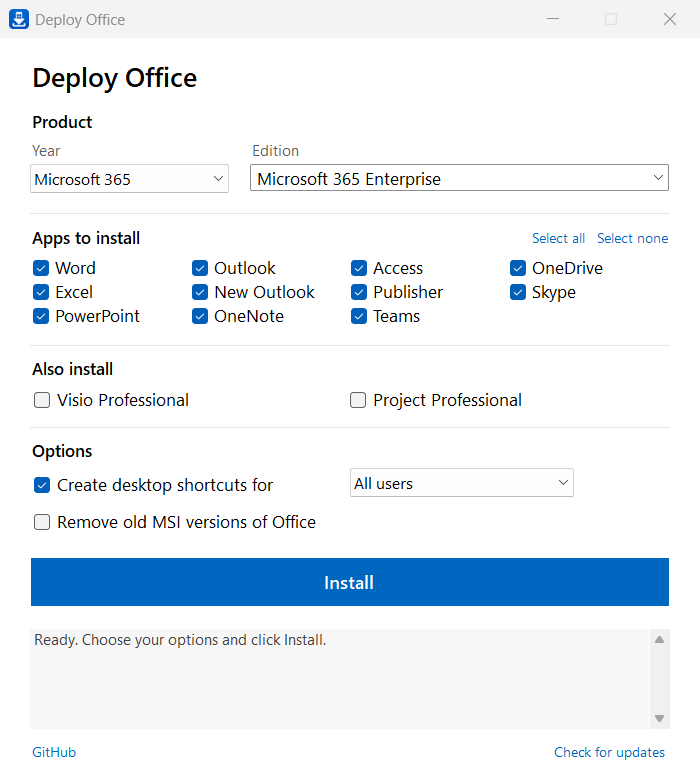
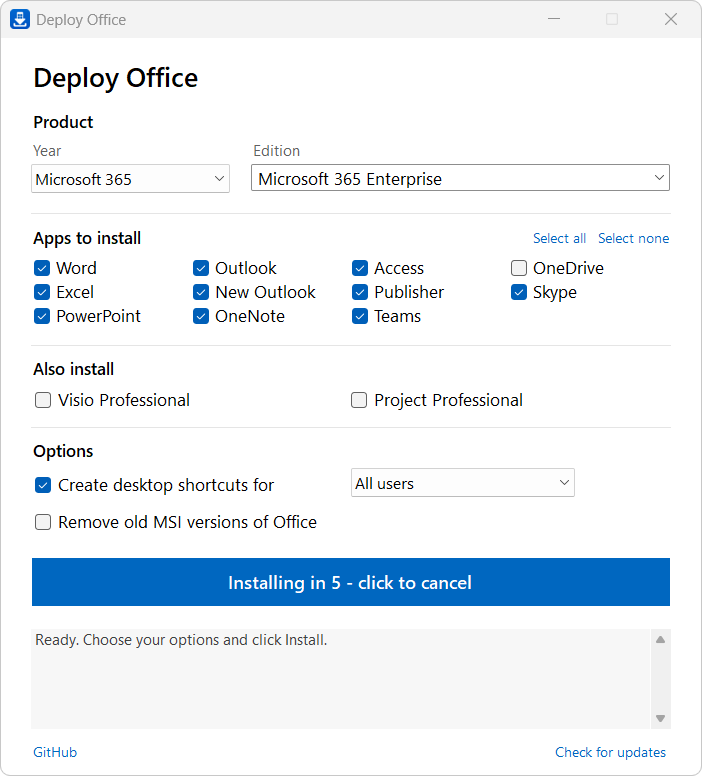
Update README and screenshot for 2.0.0

diff --git a/README.md b/README.md
@@ -18,7 +18,7 @@ Everything is downloaded from the cloud, so you'll always have the latest versio
 
 Desktop shortcuts will also be created by default for any installed Office applications, on the Public Desktop so every user on the PC sees them. Pick **Current user only** to put them on your own Desktop instead. Office itself is always installed for all users on the PC.
 
-Uncheck any apps you don't want (Access, Publisher, Teams, OneDrive, and so on), and tick **Visio Professional** or **Project Professional** to install them alongside Office in the same run.
+Uncheck any apps you don't want (Access, Publisher, Teams, OneDrive, and so on). To install only one or two apps, click **Select none** and check just those. Tick **Visio Professional** or **Project Professional** to install them alongside Office in the same run.
 
 If the PC has an older MSI-based Office (2016 or earlier), tick **Remove old MSI versions of Office** to uninstall it as part of the install.
 
